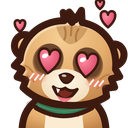
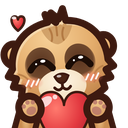
invisible 18+ button and new love emoji

diff --git a/cogs/setup.py b/cogs/setup.py
@@ -42,6 +42,7 @@ TOGGLES = {name: (title, text) for name, title, text in PROTECTIONS} | {
 }
 PAGE_OF = {"filter_languages": "langs", "staff_channel": "staff", "staff_role": "staff", "reminder": "staff",
            "young_roles": "ages", "adult_roles": "ages", "no_age_role": "ages", "age_check": "ages", "age_mode": "ages",
+           "adult_button": "ages",
            "post_panel": "reports", "post_tips": "reports", "report_updates": "reports", "appeals": "reports",
            "image_scan": "extras", "weekly_summary": "extras"}
 VERIFICATION = {
@@ -132,6 +133,7 @@ def home(guild: discord.Guild, s: db.GuildSettings, note: str | None = None):
             ("Teens", "Everyone without an 18+ role (Teen by Default)") if s.teen_default else
             ("Teen Roles", _roles(s, "young_roles", "older_roles")),
             ("Adult Roles", _roles(s, "adult_roles")),
+            ("18+ Button", f"<#{s.adult_channel_id}>" if s.teen_default and s.adult_channel_id else None),
             ("Protections", f"{on} of {len(PROTECTIONS) + 1} on · Warning Signs: {_risk_text(s).lower()}"),
         ])
     else:
@@ -180,6 +182,8 @@ def teen_page(guild, s: db.GuildSettings):
     teens = ("Everyone without an 18+ role (Teen by Default)" if s.teen_default
              else _roles(s, 'young_roles', 'older_roles'))
     ages = f"**Teens:** {teens}\n**Adult Roles:** {_roles(s, 'adult_roles')}"
+    if s.teen_default and s.adult_channel_id:
+        ages += f"\n**18+ Button:** <#{s.adult_channel_id}>"
     if not s.teen_safety:
         ages += ("\n-# Teen safety stays off until you pick your 18+ role." if s.teen_default else
                  "\n-# Teen safety stays off until you pick at least one teen role.")
@@ -313,8 +317,16 @@ def ages_page(guild, s: db.GuildSettings):
     mode = ("How Ages Work", ["-# Teen by Default protects everyone who doesn't have an 18+ role.",
                               _select("age_mode", AGE_MODES, "tbd" if s.teen_default else "roles", "How ages work")])
     if s.teen_default:
+        where = (f"**Posted in:** <#{s.adult_channel_id}> · {len(db.verified_adults(s.guild_id))} adults so far"
+                 if s.adult_channel_id else "**Not posted yet**")
+        post = discord.ui.ChannelSelect(custom_id=f"{PREFIX}:set:adult_button",
+                                        channel_types=[discord.ChannelType.text],
+                                        placeholder="Post it in an age-restricted channel...")
         return _card(guild, "Age Roles", "Who Lookout treats as a teen", mode,
                      ("Adult Roles", [roles("adult_roles", "Pick the 18+ roles..."), f"-# {ADULT_TIP}"]),
+                     ("Invisible 18+", [where + "\n-# No role at all. Adults press a button in an age-restricted "
+                                                "channel, and Lookout remembers them privately. Nobody can see who "
+                                                "pressed it.", post]),
                      ("Wrong Age Roles", [_toggle(s, "age_check")]),
                      buttons=[_button("Back", "page", "teen")])
     no_role = [("adult", "Count them as 18+"), ("ignore", "Leave them out")]
@@ -508,15 +520,13 @@ def step_ages(s: db.GuildSettings, guild=None, manual: bool = False):
 
 
 def step_age_mode():
-    return ui_kit.card(
-        "Set Up Lookout",
-        ("Age Roles", ["How does your server mark ages?",
-                       discord.ui.Section("**Teen by Default** (safest)\n-# Pick only your 18+ role. Everyone without it "
-                                          "is protected as a teen, so nobody needs a role that shows they're under 18.",
-                                          accessory=_button("Use This", "gmode", "tbd")),
-                       discord.ui.Section("**Teen and Adult Roles**\n-# Pick both. Use this if your server already has "
-                                          "roles like 13-17 and 18+.", accessory=_button("Use These", "gmode", "roles"))]),
-        subtitle="Step 3 of 4", icon="settings")
+    tbd = discord.ui.Section("**Teen by Default** (safest)\n-# Pick only your 18+ role. Everyone without it is "
+                             "protected as a teen, so nobody needs a role that shows they're under 18.",
+                             accessory=_button("Use This", "gmode", "tbd"))
+    roles = discord.ui.Section("**Teen and Adult Roles**\n-# Pick both. Use this if your server already has roles "
+                               "like 13-17 and 18+.", accessory=_button("Use These", "gmode", "roles"))
+    return ui_kit.card("Set Up Lookout", ("Age Roles", ["How does your server mark ages?", tbd, roles]),
+                       subtitle="Step 3 of 4", icon="settings")
 
 
 def step_adult(s: db.GuildSettings):
@@ -525,9 +535,11 @@ def step_adult(s: db.GuildSettings):
                                  default_values=[discord.Object(r) for r in s.role_ids("adult_roles")])
     return ui_kit.card("Set Up Lookout",
                        ("Your 18+ Role", ["Pick the role only adults have. Everyone without it is protected as a teen.",
-                                          menu, f"-# {ADULT_TIP}"]),
+                                          menu, f"-# {ADULT_TIP}\n-# Don't want a role at all? Skip this, then post "
+                                                "the invisible 18+ button in **/setup** > **Age Roles**."]),
                        subtitle="Step 3 of 4 · Teen by Default", icon="settings",
-                       buttons=[_button("Back", "gmode", "back"), _button("Next" if s.teen_safety else "Skip", "gnext")])
+                       buttons=[_button("Back", "gmode", "back"),
+                                _button("Next" if s.teen_safety else "Skip", "gnext")])
 
 
 def step_panel(note: str | None = None):
@@ -697,6 +709,17 @@ class Setup(commands.Cog):
             s.no_age_role = values[0]
         elif arg == "age_mode" and values:
             self._set_mode(s, values[0])
+        elif arg == "adult_button":
+            channel = guild.get_channel(int(values[0])) if values else None
+            if channel is None or not channel.is_nsfw():
+                return await tell("That channel isn't age-restricted. Turn on **Age-Restricted Channel** in its "
+                                  "settings first, so only adults Discord has verified can see it.")
+            if not can_post(channel) or not await self._post_adult_button(channel):
+                return await tell("Lookout can't post in that channel. Pick a different one.")
+            was_on = s.teen_safety
+            s.adult_channel_id = channel.id
+            if s.teen_safety and not was_on and s.risk_mode == "test":
+                s.risk_test_until = time.time() + TEST_DAYS * 86400
         elif arg == "post_panel":
             channel = guild.get_channel(int(values[0])) if values else None
             if not await self._post_panel(channel, can_post):
@@ -741,6 +764,20 @@ class Setup(commands.Cog):
         try:
             view = tips_message(banner=channel.permissions_for(channel.guild.me).attach_files)
             await channel.send(view=view, files=ui_kit.files(view))
+            return True
+        except discord.HTTPException:
+            return False
+
+    @staticmethod
+    async def _post_adult_button(channel) -> bool:
+        view = ui_kit.card(ui_kit.titled("brand", "Are You 18+?"),
+                           "Press **I'm 18+** so Lookout knows you're an adult in this server.\n"
+                           "-# You don't get a role, and nobody can see who pressed it. Pressed it by mistake? "
+                           "Press **Undo**.",
+                           buttons=[discord.ui.Button(label="I'm 18+", custom_id="lkadult:yes"),
+                                    discord.ui.Button(label="Undo", custom_id="lkadult:no")])
+        try:
+            await channel.send(view=view)
             return True
         except discord.HTTPException:
             return False

diff --git a/db.py b/db.py
@@ -74,6 +74,11 @@ _conn.executescript(
         guild_id INTEGER, user_id INTEGER, created_at REAL,
         PRIMARY KEY (guild_id, user_id)
     );
+    -- pressed the 18+ button in an age-restricted channel. no role, nobody else can see it
+    CREATE TABLE IF NOT EXISTS verified_adults (
+        guild_id INTEGER, user_id INTEGER, created_at REAL,
+        PRIMARY KEY (guild_id, user_id)
+    );
 
     -- removed features (age-aware voice, /trust, first-contact heads-up, selfie reply block)
     DROP TABLE IF EXISTS first_contacts;
@@ -97,7 +102,7 @@ _GUILD_COLS = {"weekly_summary": "INTEGER DEFAULT 1", "summary_sent_at": "REAL",
                "selfie_guard": "INTEGER DEFAULT 1", "nick_check": "INTEGER DEFAULT 1",
                "alt_catcher": "INTEGER DEFAULT 1", "tips_channel_id": "INTEGER", "flirty_filter": "INTEGER DEFAULT 1",
                "checkup_score": "INTEGER", "checkup_at": "REAL", "filter_languages": "TEXT DEFAULT 'en'",
-               "age_check": "INTEGER DEFAULT 1"}
+               "age_check": "INTEGER DEFAULT 1", "adult_channel_id": "INTEGER"}
 _have = {r[1] for r in _conn.execute("PRAGMA table_info(guilds)")}
 for _col, _type in _GUILD_COLS.items():
     if _col not in _have:
@@ -154,6 +159,7 @@ class GuildSettings:
     checkup_at: float | None = None
     filter_languages: str = "en"         # the Message Filter's languages, like "en,es"
     age_check: bool = True               # age mismatch
+    adult_channel_id: int | None = None  # where the 18+ button was posted
 
     @property
     def configured(self) -> bool:
@@ -169,7 +175,8 @@ class GuildSettings:
 
     @property
     def teen_safety(self) -> bool:
-        return bool(self.young_roles or self.older_roles or (self.teen_default and self.adult_roles))
+        return bool(self.young_roles or self.older_roles
+                    or (self.teen_default and (self.adult_roles or self.adult_channel_id)))
 
     @property
     def languages(self) -> tuple[str, ...]:
@@ -185,7 +192,7 @@ _COLS = ("staff_channel_id", "staff_role_id", "image_scan", "weekly_summary", "r
          "appeals", "report_updates", "panel_channel_id", "young_roles", "older_roles", "adult_roles",
          "no_age_role", "contact_filter", "teen_restrict", "risk_mode", "risk_test_until", "tips_dm",
          "selfie_guard", "nick_check", "alt_catcher", "tips_channel_id", "flirty_filter", "checkup_score",
-         "checkup_at", "filter_languages", "age_check")
+         "checkup_at", "filter_languages", "age_check", "adult_channel_id")
 _BOOLS = ("image_scan", "weekly_summary", "appeals", "report_updates", "contact_filter", "teen_restrict",
           "tips_dm", "selfie_guard", "nick_check", "alt_catcher", "flirty_filter", "age_check")
 
@@ -609,7 +616,20 @@ def delete_event(guild_id: int, event_id: int) -> tuple | None:
 
 # teen safety
 
-TEEN_TABLES = ("teen_signals", "restrictions", "risk_flags", "nudged", "nick_tips", "leavers", "alt_alerts")
+TEEN_TABLES = ("teen_signals", "restrictions", "risk_flags", "nudged", "nick_tips", "leavers", "alt_alerts",
+               "verified_adults")
+
+
+def verified_adults(guild_id: int) -> set[int]:
+    return {r[0] for r in _conn.execute("SELECT user_id FROM verified_adults WHERE guild_id=?", (guild_id,))}
+
+
+def set_verified_adult(guild_id: int, user_id: int, on: bool) -> None:
+    if on:
+        _conn.execute("INSERT OR IGNORE INTO verified_adults VALUES (?, ?, ?)", (guild_id, user_id, time.time()))
+    else:
+        _conn.execute("DELETE FROM verified_adults WHERE guild_id=? AND user_id=?", (guild_id, user_id))
+    _conn.commit()
 SIGNAL_DAYS = 30        # how far back warning signs count
 
 

diff --git a/cogs/teensafety.py b/cogs/teensafety.py
@@ -211,6 +211,7 @@ class TeenSafety(commands.Cog):
         # (guild, adult): (alert id, last message time, first message id, count)
         self._flirty_cases: dict[tuple[int, int], tuple[int, float, int, int]] = {}
         self._tasks: set[asyncio.Task] = set()
+        self._adults: dict[int, set[int]] = {}  # pressed the 18+ button, per server
         self.leave_check.start()
 
     def cog_unload(self):
@@ -223,8 +224,16 @@ class TeenSafety(commands.Cog):
 
     # roles
 
-    # TEEN or ADULT. no age role counts as TEEN with teen by default, otherwise ADULT unless the server ignores those
+    def verified(self, guild_id: int) -> set[int]:
+        if guild_id not in self._adults:
+            self._adults[guild_id] = db.verified_adults(guild_id)
+        return self._adults[guild_id]
+
+    # TEEN or ADULT. the 18+ button beats roles, discord checked their age.
+    # no age role counts as TEEN with teen by default, otherwise ADULT unless the server ignores those
     def band(self, member: discord.Member, s: db.GuildSettings, explicit: bool = False) -> int | None:
+        if member.id in self.verified(s.guild_id):
+            return ADULT
         ids = {r.id for r in getattr(member, "roles", [])}
         if ids & (s.role_ids("young_roles") | s.role_ids("older_roles")):
             return TEEN
@@ -636,6 +645,30 @@ class TeenSafety(commands.Cog):
             await msg.edit(view=view, allowed_mentions=discord.AllowedMentions.none())
         except (discord.HTTPException, StopIteration):
             log.info("Couldn't add a line to case %s", case["case_no"])
+
+    # the 18+ button. it only works in age-restricted channels, discord keeps everyone it hasn't verified out of those
+
+    @commands.Cog.listener("on_interaction")
+    async def adult_button(self, interaction: discord.Interaction):
+        if interaction.type != discord.InteractionType.component or interaction.guild is None:
+            return
+        cid = (interaction.data or {}).get("custom_id", "")
+        if cid not in ("lkadult:yes", "lkadult:no"):
+            return
+        if not getattr(interaction.channel, "is_nsfw", lambda: False)():
+            return await interaction.response.send_message(view=ui_kit.note(
+                "This button only works in an age-restricted channel."), ephemeral=True)
+        on = cid == "lkadult:yes"
+        guild, user = interaction.guild, interaction.user
+        db.set_verified_adult(guild.id, user.id, on)
+        (self.verified(guild.id).add if on else self.verified(guild.id).discard)(user.id)
+        await interaction.response.send_message(view=ui_kit.note(
+            "**Saved.** Lookout treats you as an adult in this server now. Nobody can see that you pressed this."
+            if on else "**Removed.** Lookout won't treat you as an adult here anymore."), ephemeral=True)
+
+    @commands.Cog.listener()
+    async def on_guild_remove(self, guild: discord.Guild):
+        self._adults.pop(guild.id, None)  # the db rows go in forget_guild
 
     # age mismatch, once per member. lookout can't change roles so it's only ever a note for the mods
 
